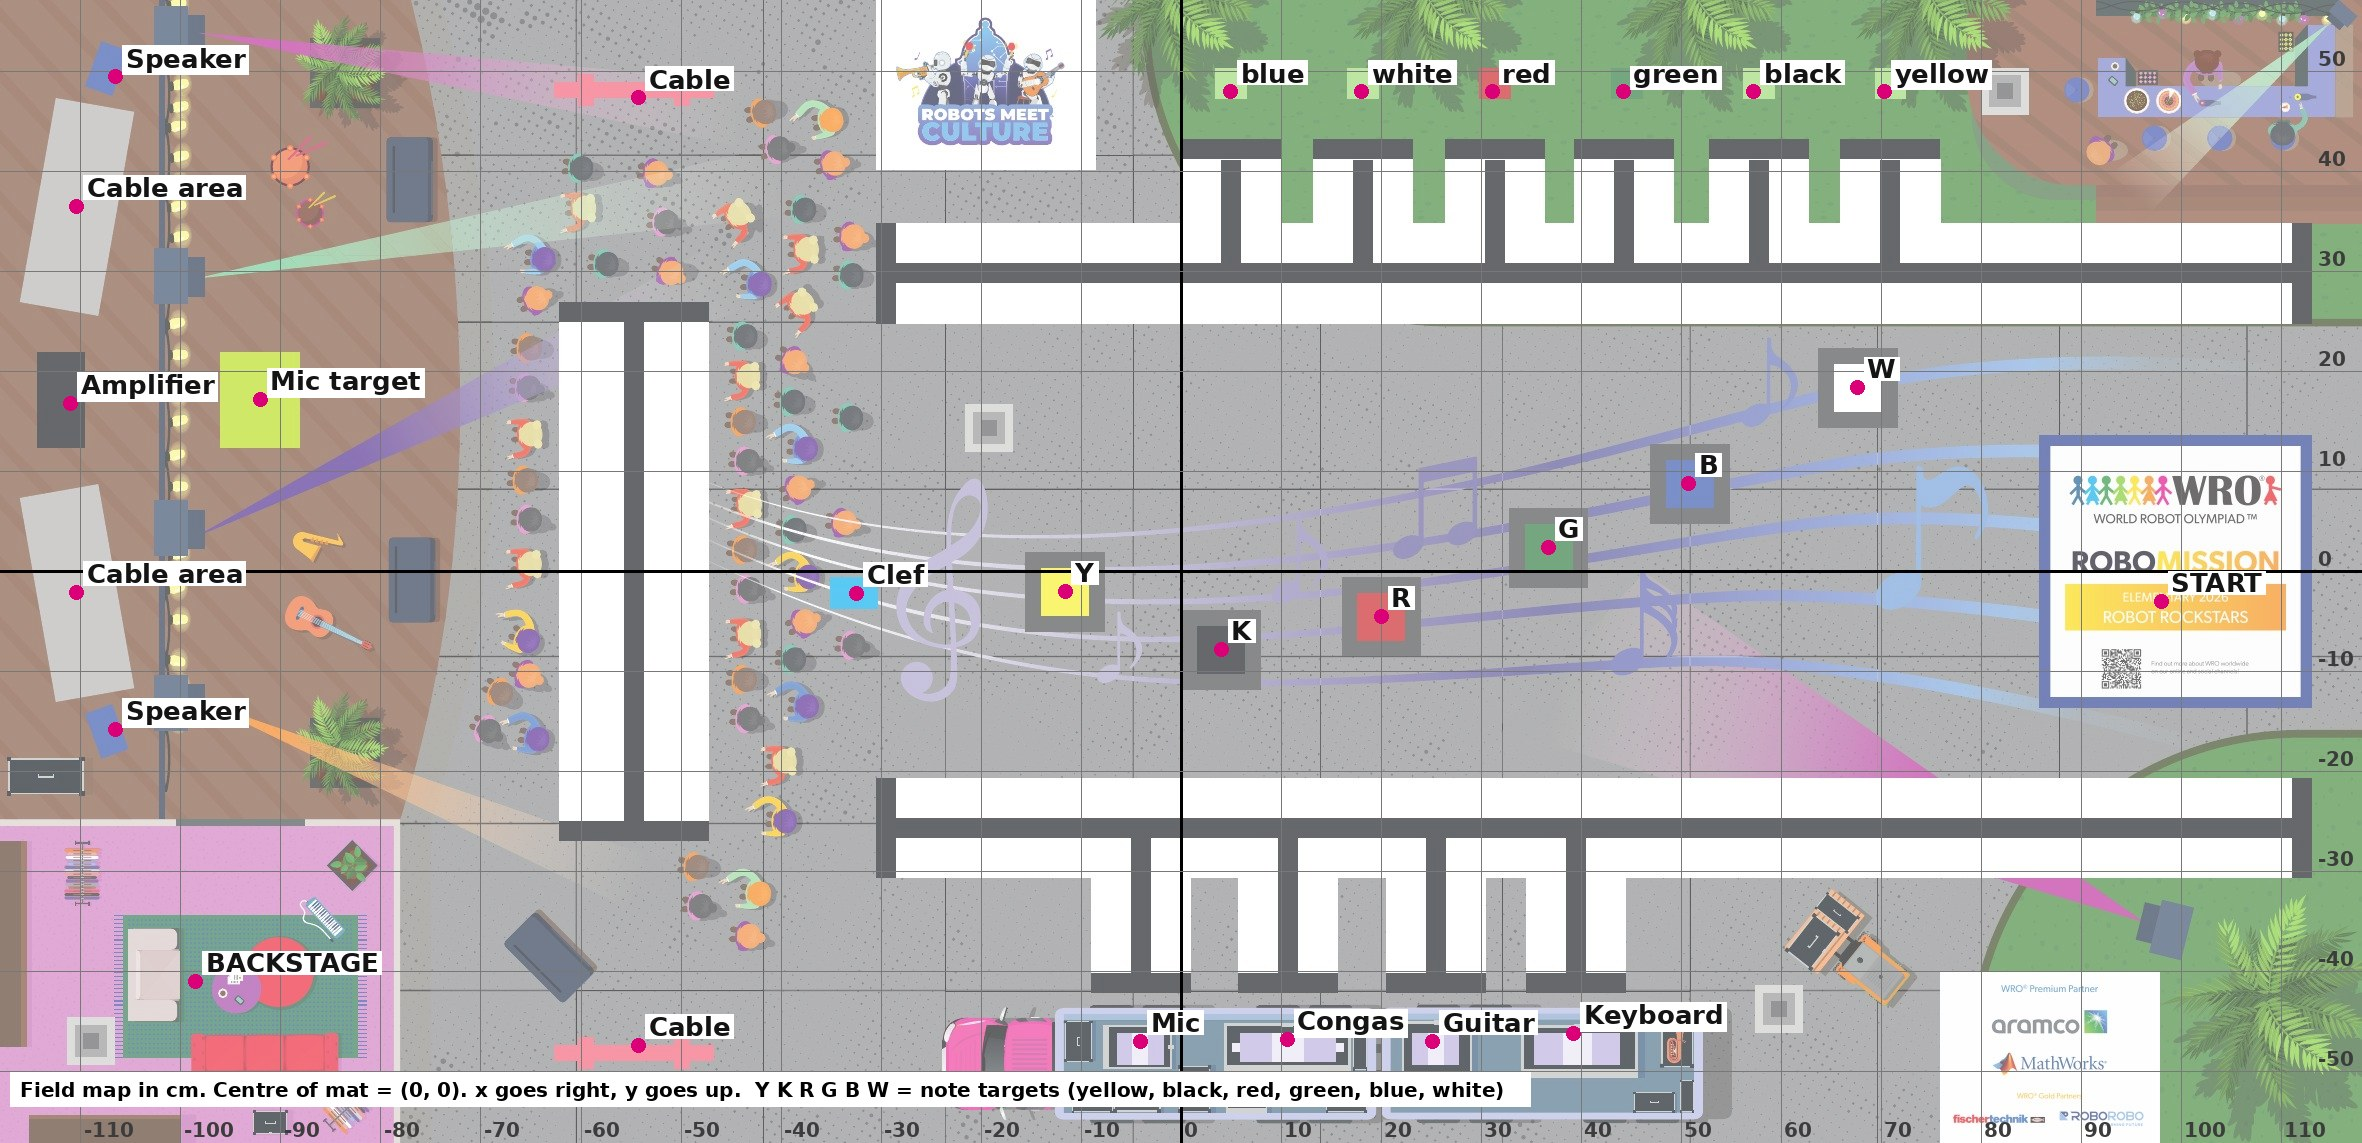
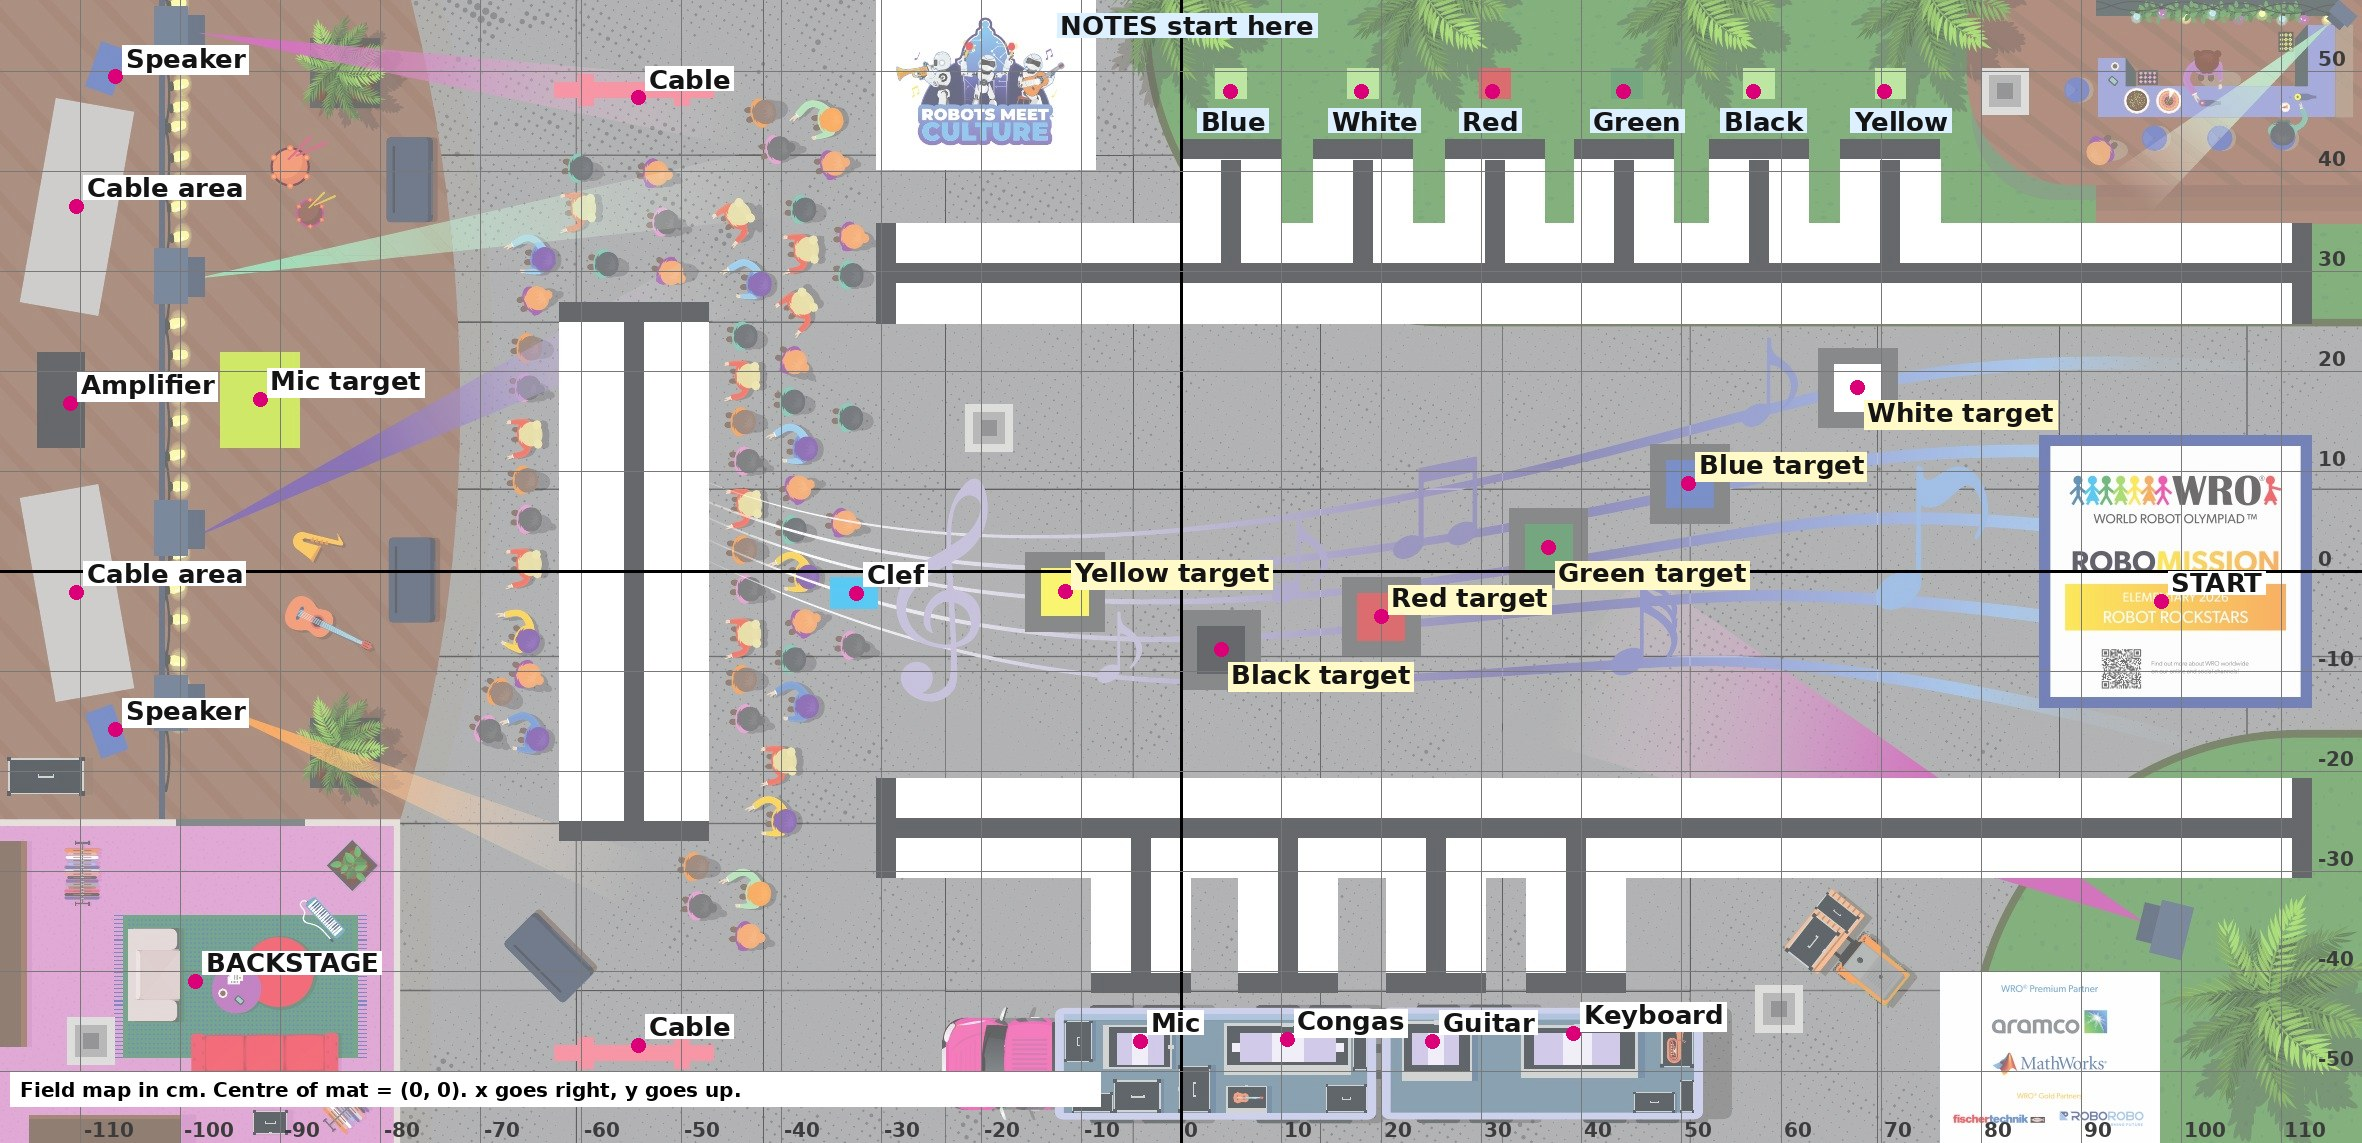
Field map: full names for note targets, no more single-letter labels
Claude-Session: https://claude.ai/code/session_013RY6nGgzE73izoxwwcSsGM

diff --git a/missions/mission-3-drive-to-yellow.md b/missions/mission-3-drive-to-yellow.md
@@ -20,7 +20,7 @@
 
 ## Step 1: Plan it on the map 🗺
 
-Open the [field map](../images/field-map.jpg). Find **START** and **Y** (the yellow target).
+Open the [field map](../images/field-map.jpg). Find **START** and **Yellow target**.
 
 - The start is at about **x = 98 cm**.
 - The yellow square is at about **x = -12 cm**.
@@ -68,7 +68,7 @@ In the **Python** tab, find your two `move_steering_for_degrees` lines. The firs
 
 ## ✅ You've finished when...
 
-The robot stops on the yellow square 3 times in a row. Then, using **only the Python tab**, change the numbers so it stops on the **black** square (**K** on the map) instead.
+The robot stops on the yellow square 3 times in a row. Then, using **only the Python tab**, change the numbers so it stops on the **black target** instead (find **Black target** on the map).
 
 ## 📓 Notebook
 

diff --git a/missions/mission-7-deliver-a-note.md b/missions/mission-7-deliver-a-note.md
@@ -19,7 +19,7 @@
 Use the [field map](../images/field-map.jpg).
 
 - The **red note** starts at the top, in slot 3: about **x = 31, y = 48**.
-- The **red target** (R) is at about **x = 20, y = -4.5**.
+- The **Red target** is at about **x = 20, y = -4.5**.
 
 Draw the robot's route on paper. For each step, write:
 
